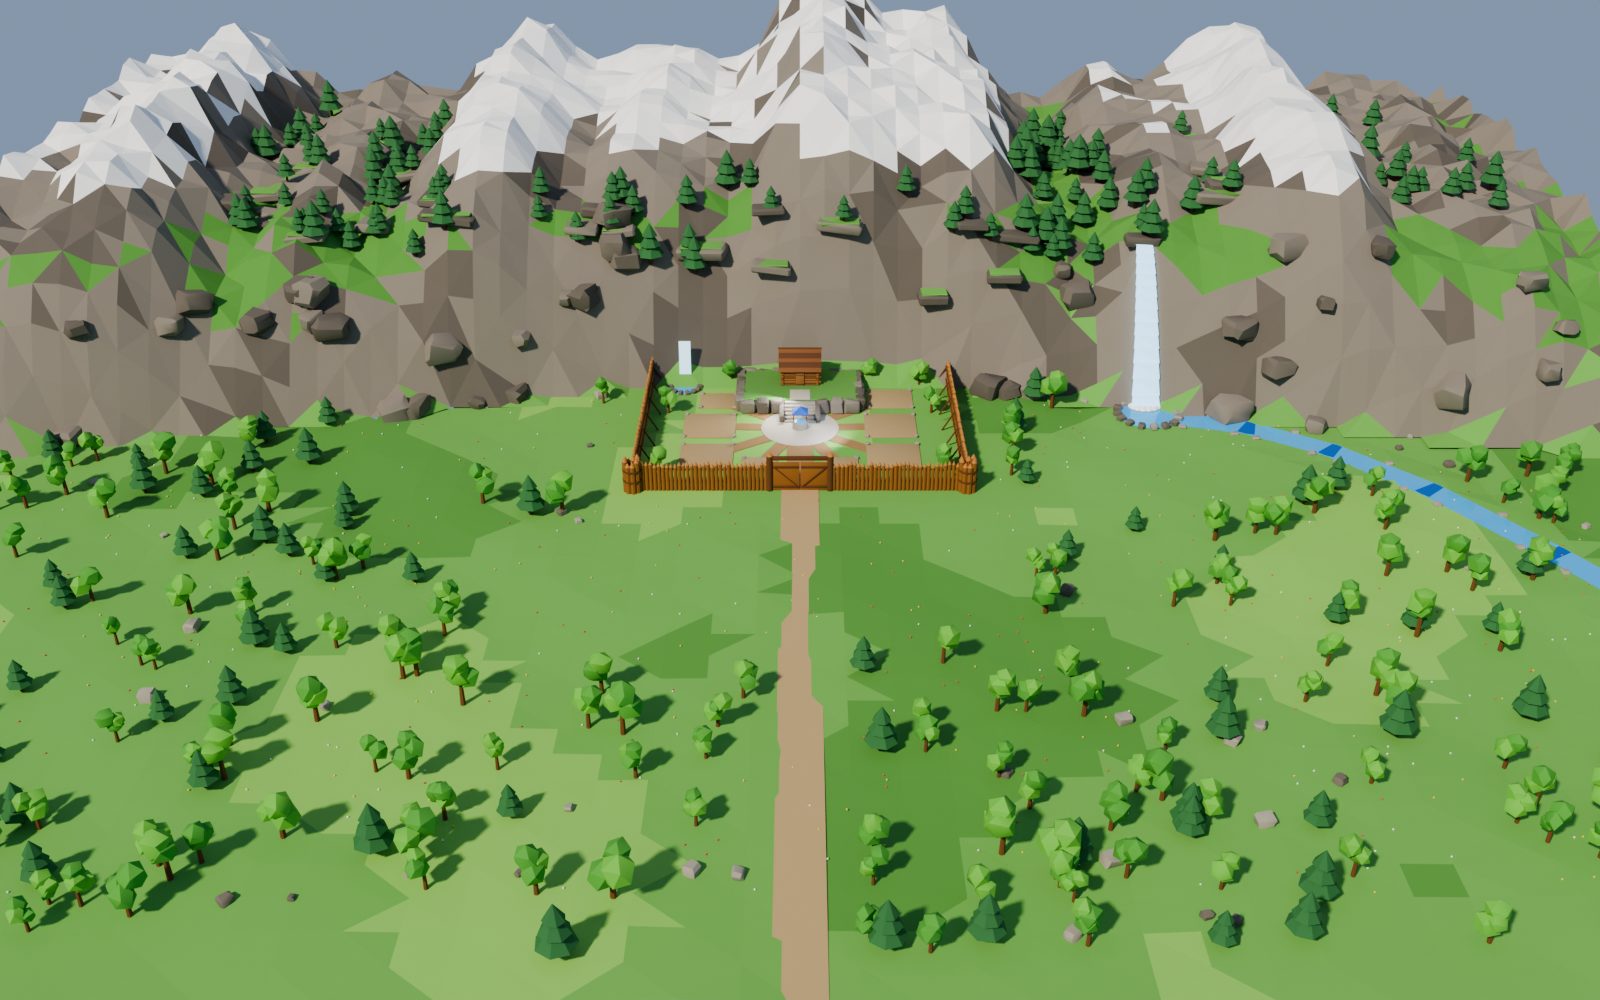
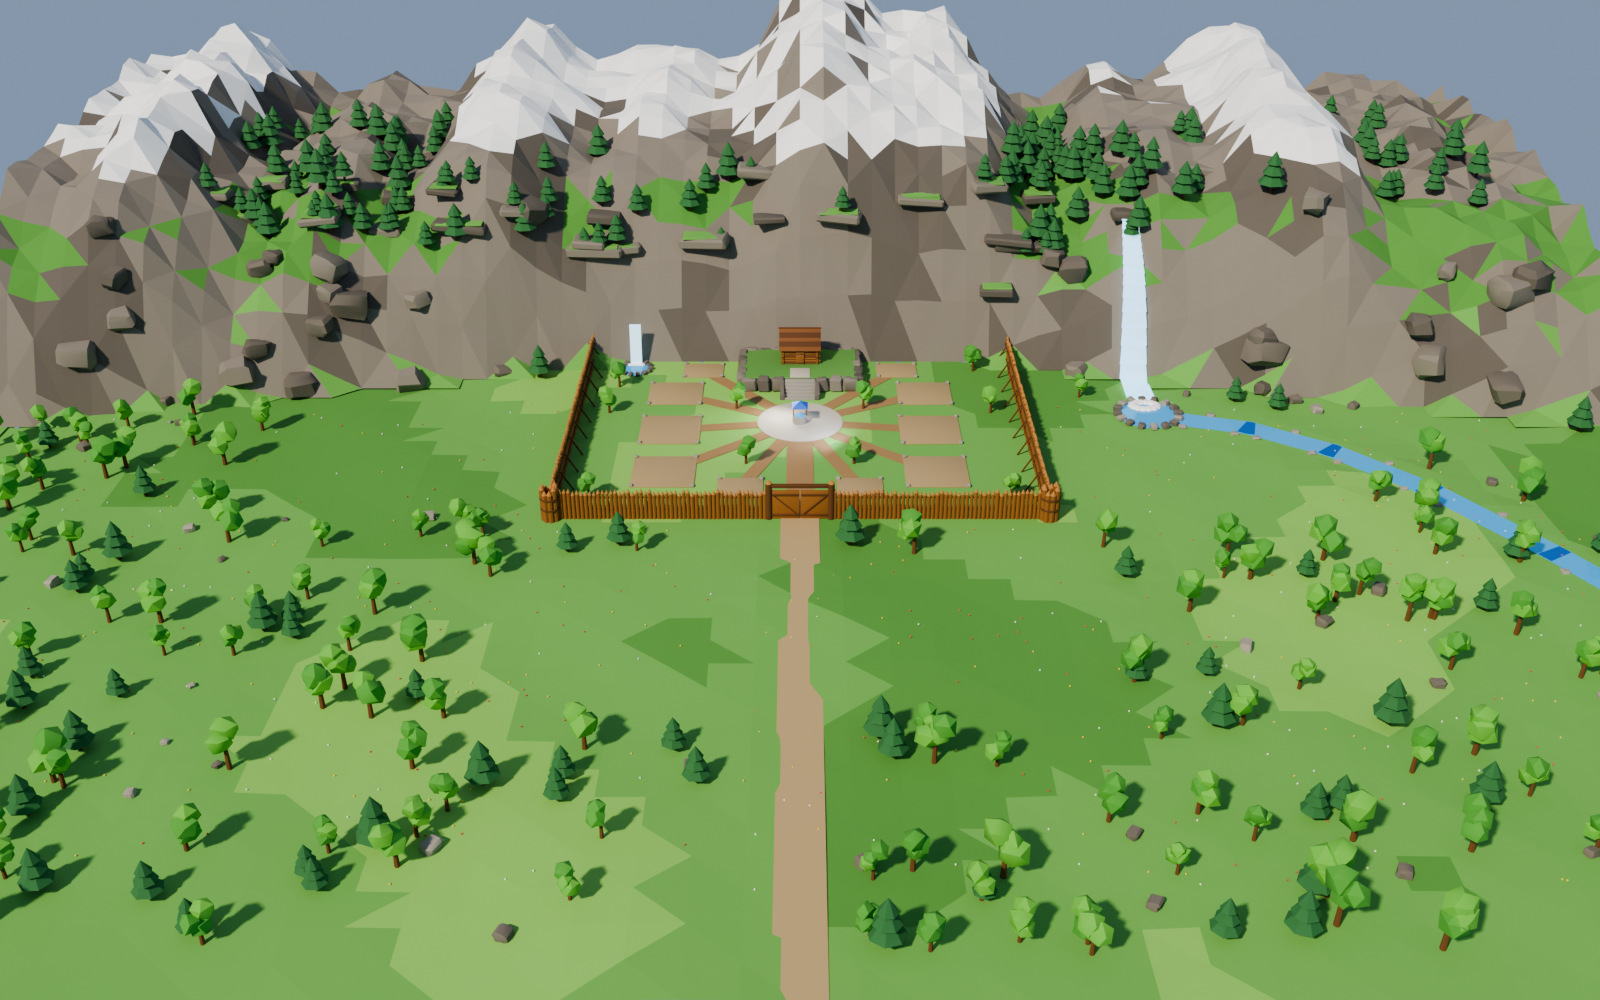
Map exports and previews for the enlarged city; defender counts in docs
Claude-Session: https://claude.ai/code/session_01WrPwWZeWsrVhzHgakPsico

diff --git a/modele3d/README.md b/modele3d/README.md
@@ -157,13 +157,13 @@ Statystyki walki (obrażenia, życie, zasięg) trzymaj osobno w grze, np. w `bal
 
 Miasto pod wysoką górą (z wodospadem, jeziorem i rzeką po prawej, półkami skalnymi i głazami), z murami z 3 stron (lewy, przedni z bramą, prawy). Każdy mur i brama ulepszają się **osobno**, w **15 poziomach**. Wygląd zmienia się co 3 poziomy, więc jest **5 etapów wyglądu**:
 
-| Poziomy | Etap | Wygląd | Obrońcy (mur boczny) |
+| Poziomy | Etap | Wygląd | Obrońcy (mur boczny / przedni) |
 |---|---|---|---|
 | 1–3 | 1 | Palisada | brak (bez pomostu) |
-| 4–6 | 2 | Mur drewniany | 2 |
-| 7–9 | 3 | Słaby mur kamienny | 3 |
-| 10–12 | 4 | Lepszy mur kamienny | 5 |
-| 13–15 | 5 | Warownia | 6 |
+| 4–6 | 2 | Mur drewniany | 3 / 4 |
+| 7–9 | 3 | Słaby mur kamienny | 4 / 6 |
+| 10–12 | 4 | Lepszy mur kamienny | 7 / 9 |
+| 13–15 | 5 | Warownia | 9 / 11 |
 
 Brama zmienia wygląd na tych samych progach. Wieże na przednich narożnikach przyjmują poziom wyższego z dwóch sąsiednich murów. Liczbę poziomów i progi zmieniasz w `src/mapa/uklad.py` (`LICZBA_POZIOMOW`, `POZIOMY`).
 

diff --git a/projekt/zasady_gry.md b/projekt/zasady_gry.md
@@ -99,10 +99,10 @@ Cel na premierę **(propozycja)**: 4 jednostki podstawowe + 3–4 fuzje.
 - **Każdy mur ulepsza się osobno.** **Brama** na środku muru przedniego ulepsza się osobno.
 - **15 poziomów ulepszeń** dla każdego muru i dla bramy. Wygląd zmienia się co 3 poziomy:
   - 1–3 Palisada: **brak obrońców na murach** (nie ma pomostu),
-  - 4–6 Mur drewniany: mało miejsc dla obrońców (2 na boku),
-  - 7–9 Słaby mur kamienny (3),
-  - 10–12 Lepszy mur kamienny (5),
-  - 13–15 Warownia (6).
+  - 4–6 Mur drewniany: mało miejsc dla obrońców (3 na murze bocznym, 4 na przednim),
+  - 7–9 Słaby mur kamienny (4 / 6),
+  - 10–12 Lepszy mur kamienny (7 / 9),
+  - 13–15 Warownia (9 / 11).
 - Brama zmienia wygląd na tych samych progach.
 - **Atakujący wybiera stronę ataku** (lewa, przód, prawa). Przed każdym murem jest wolna łąka na rozstawienie wojsk.
 - Wnętrze miasta: 52 × 40 m.
